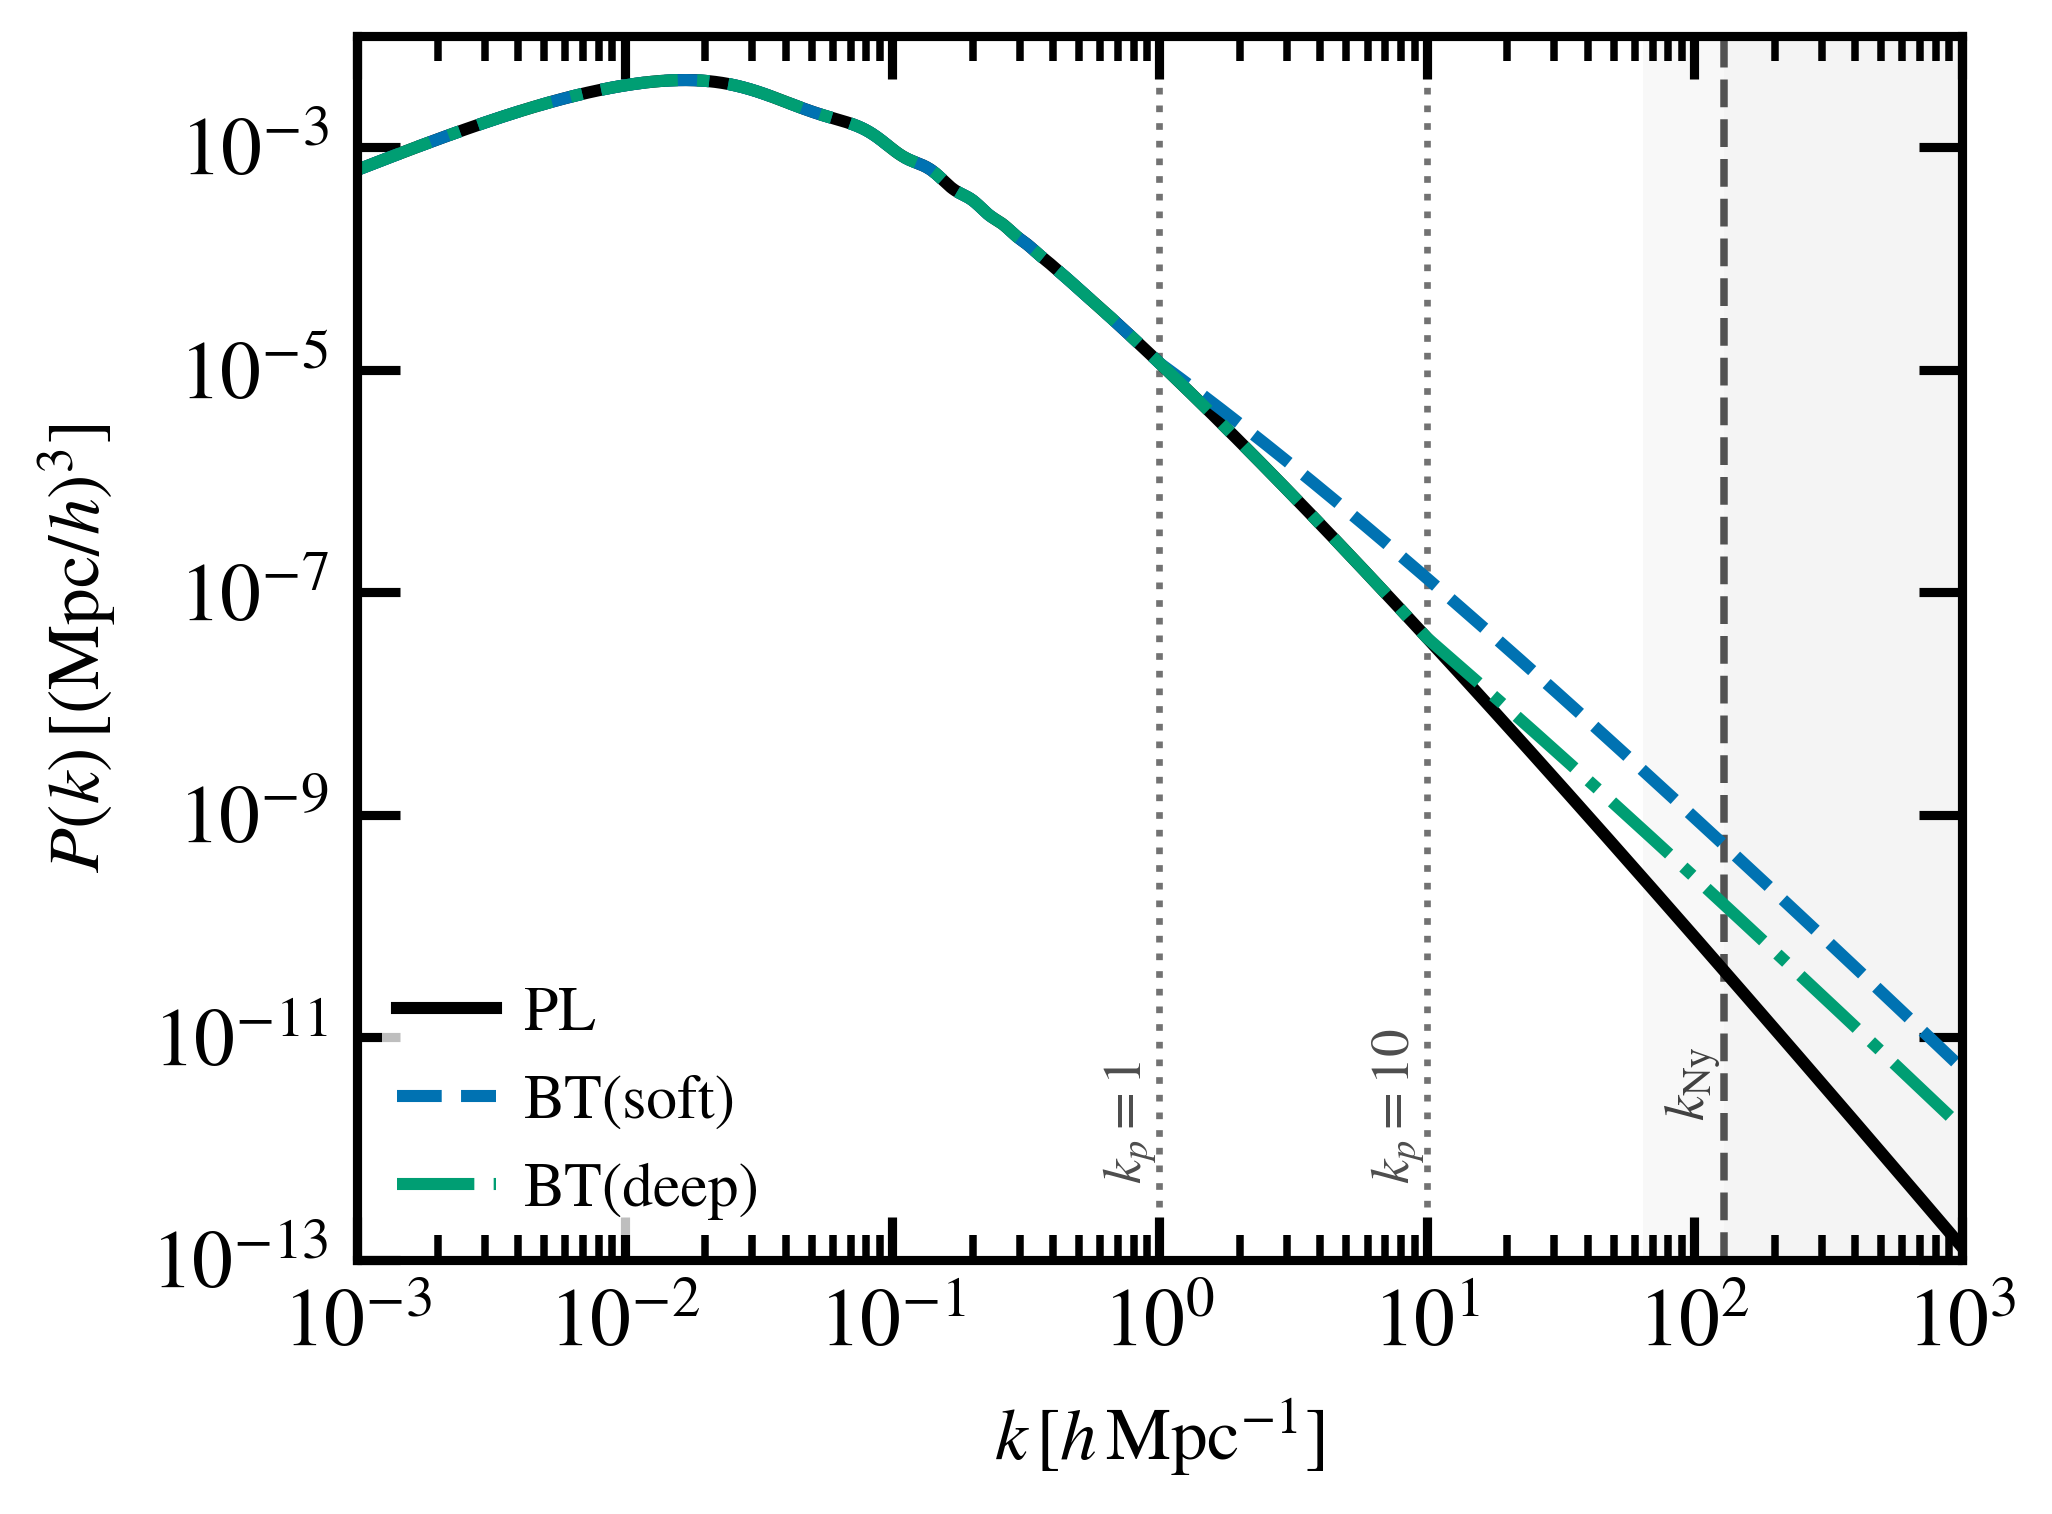
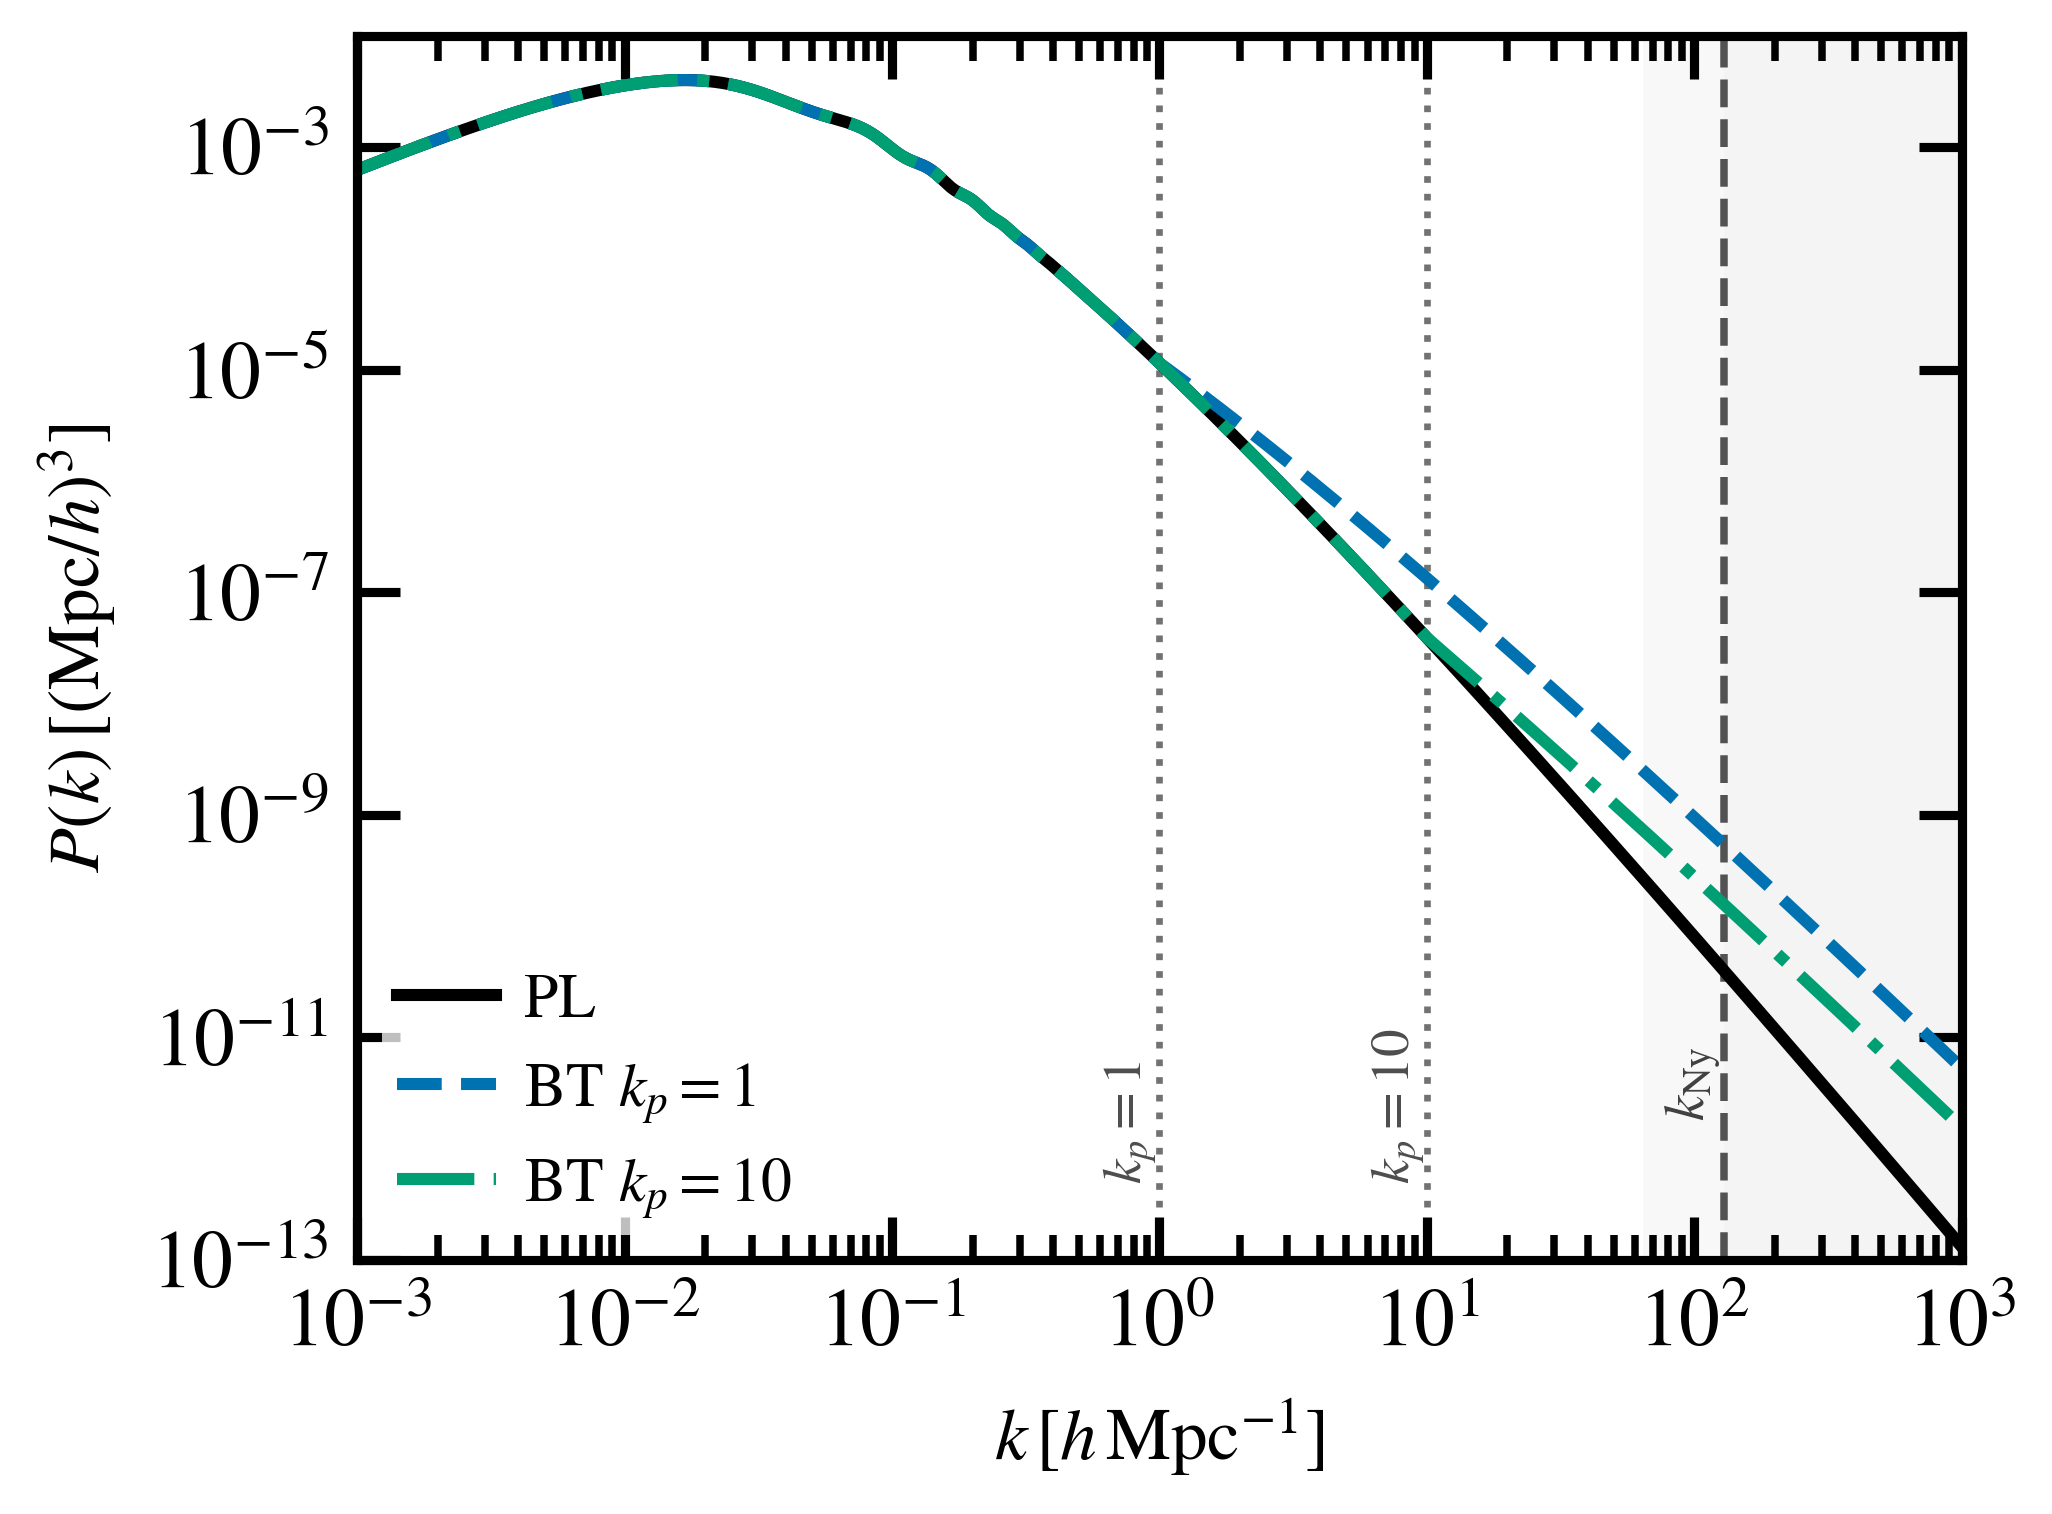
Improve mass-function ranges and spectrum labels

Changed region(s): [[0.1871, 0.6209, 0.3743, 0.8071], [0.1871, 0.7761, 0.2183, 0.8071]]

diff --git a/main.tex b/main.tex
@@ -203,7 +203,7 @@ As an initial-condition consistency test, we compare the BT pivot scales with th
 \begin{figure}[t]
     \centering
     \includegraphics[width=\columnwidth]{input-power-spectrum.png}
-    \caption{Input linear matter power spectra at \(z_i=200\) used to generate the PL, \BTKPone{}, and \BTKPten{} initial conditions. The PL spectrum provides the standard power-law baseline. The BT spectra use the same target \(\sigma_8\) normalization and keep the PL/Eisenstein shape below their pivot scales, up to the small global normalization applied by MonofonIC; above the pivot, they depart from PL. \BTKPone{} departs from PL over a broader range of mildly nonlinear modes, whereas \BTKPten{} confines the modification to smaller scales. The spectra are evaluated at the initial redshift, \(z_i=200\). For the main \(25\,h^{-1}{\rm Mpc}\), \(1024^3\) runs, \(k_{\rm Ny}\simeq129\,h\,{\rm Mpc}^{-1}\), so the \(k_p=1\) and \(10\,h\,{\rm Mpc}^{-1}\) pivots are well below the particle-grid Nyquist scale. Vertical dotted lines mark the BT pivot scales, while the gray high-\(k\) regions mark the conservative \(0.5k_{\rm Ny}\)--\(k_{\rm Ny}\) caution range and modes beyond \(k_{\rm Ny}\).\Tk{change the legend.}}
+    \caption{Input linear matter power spectra at \(z_i=200\) used to generate the PL, \BTKPone{}, and \BTKPten{} initial conditions. The PL spectrum provides the standard power-law baseline. The BT spectra use the same target \(\sigma_8\) normalization and keep the PL/Eisenstein shape below their pivot scales, up to the small global normalization applied by MonofonIC; above the pivot, they depart from PL. \BTKPone{} departs from PL over a broader range of mildly nonlinear modes, whereas \BTKPten{} confines the modification to smaller scales. The spectra are evaluated at the initial redshift, \(z_i=200\). For the main \(25\,h^{-1}{\rm Mpc}\), \(1024^3\) runs, \(k_{\rm Ny}\simeq129\,h\,{\rm Mpc}^{-1}\), so the \(k_p=1\) and \(10\,h\,{\rm Mpc}^{-1}\) pivots are well below the particle-grid Nyquist scale. Vertical dotted lines mark the BT pivot scales, while the gray high-\(k\) regions mark the conservative \(0.5k_{\rm Ny}\)--\(k_{\rm Ny}\) caution range and modes beyond \(k_{\rm Ny}\).}
     \label{fig:power_spectrum_comparison}
 \end{figure}
 
@@ -295,7 +295,7 @@ We use the Reed et al. (2007) FOF fitting function as published, without refitti
 \begin{figure*}[t]
     \centering
     \includegraphics[width=\textwidth]{mass-function.png}
-    \caption{FOF halo mass functions for the PL, \BTKPone{}, and \BTKPten{} simulations at representative redshifts. Upper panels show the measured $dn/d\log_{10} M_{\rm FOF}$ with Poisson error bars, together with the corresponding model-matched Reed et al. (2007) (Reed07) FOF predictions evaluated with each linear matter power spectrum generated from the PL or BT primordial power-spectrum model. Middle panels show \(\BTKPone/\mathrm{PL}\) and \(\BTKPten/\mathrm{PL}\) mass-function ratios in the same FOF mass bins. Bottom panels show \(f_{\rm sim}/f_{\rm Reed07}\) for PL, \BTKPone{}, and \BTKPten{}, using the same bins and mass thresholds. These bottom panels show ratios relative to the Reed07 FOF fitting function and are not a new fitting calibration. Here \BTKPone{} denotes the model with $k_p=1\,h\,{\rm Mpc}^{-1}$ and $m_s=1.5$, while \BTKPten{} denotes the model with $k_p=10\,h\,{\rm Mpc}^{-1}$ and $m_s=1.5$. All simulations use a $25\,h^{-1}{\rm Mpc}$ box with $1024^3$ particles. The gray band marks the interval between the nominal 20-particle halo threshold \(3.8\times10^7\,M_\odot\) and the adopted plotted catalog threshold \(M_{\rm FOF}=10^8\,M_\odot\), roughly the 50-particle scale. The corresponding spherical-overdensity $M_{200c}$ comparison with Bocquet et al. (2016) is shown in Fig.~\ref{fig:m200c_bocquet16_hmf}.}
+    \caption{FOF halo mass functions for the PL, \BTKPone{}, and \BTKPten{} simulations at representative redshifts. Upper panels show the measured $dn/d\log_{10} M_{\rm FOF}$ with Poisson error bars, together with the corresponding model-matched Reed et al. (2007) (Reed07) FOF predictions evaluated with each linear matter power spectrum generated from the PL or BT primordial power-spectrum model. Middle panels show \(\BTKPone/\mathrm{PL}\) and \(\BTKPten/\mathrm{PL}\) mass-function ratios in the same FOF mass bins. The middle-panel y-axis range is set separately for each redshift row. Bottom panels show \(f_{\rm sim}/f_{\rm Reed07}\) for PL, \BTKPone{}, and \BTKPten{}, using the same bins and mass thresholds. These bottom panels show ratios relative to the Reed07 FOF fitting function and are not a new fitting calibration. Here \BTKPone{} denotes the model with $k_p=1\,h\,{\rm Mpc}^{-1}$ and $m_s=1.5$, while \BTKPten{} denotes the model with $k_p=10\,h\,{\rm Mpc}^{-1}$ and $m_s=1.5$. All simulations use a $25\,h^{-1}{\rm Mpc}$ box with $1024^3$ particles. The gray band marks the interval between the nominal 20-particle halo threshold \(3.8\times10^7\,M_\odot\) and the adopted plotted catalog threshold \(M_{\rm FOF}=10^8\,M_\odot\), roughly the 50-particle scale. The corresponding spherical-overdensity $M_{200c}$ comparison with Bocquet et al. (2016) is shown in Fig.~\ref{fig:m200c_bocquet16_hmf}.}
     \label{fig:mass_function}
 \end{figure*}
 
@@ -304,7 +304,7 @@ As a companion comparison to the FOF mass-function result, we also compute the h
 \begin{figure*}[t]
     \centering
     \includegraphics[width=\textwidth]{mass-function-m200c-bocquet16.png}
-    \caption{Spherical-overdensity halo mass function comparison using \(M_{200c}\) masses and the Bocquet et al. (2016) (B16) fitting function. Symbols show the measured SOAP \(M_{200c}\) mass functions for PL, \BTKPone{}, and \BTKPten{}, while lines show the corresponding Bocquet et al. (2016) predictions evaluated with each model's linear matter power spectrum generated from the PL or BT primordial power-spectrum model. The SOAP catalog threshold is \(N_{\rm DM}\ge100\), and the plotted bins require \(M_{200c}\ge2.0\times10^8\,M_\odot\), close to the 100-particle scale \(1.9\times10^8\,M_\odot\). The gray band marks the low-mass region below this plotted completeness threshold. Middle panels show \(\BTKPone/\mathrm{PL}\) and \(\BTKPten/\mathrm{PL}\) mass-function ratios in the same \(M_{200c}\) bins. Bottom panels show \(f_{\rm sim}/f_{\rm B16}\) for PL, \BTKPone{}, and \BTKPten{}, using the same plotted bins.}
+    \caption{Spherical-overdensity halo mass function comparison using \(M_{200c}\) masses and the Bocquet et al. (2016) (B16) fitting function. Symbols show the measured SOAP \(M_{200c}\) mass functions for PL, \BTKPone{}, and \BTKPten{}, while lines show the corresponding Bocquet et al. (2016) predictions evaluated with each model's linear matter power spectrum generated from the PL or BT primordial power-spectrum model. The SOAP catalog threshold is \(N_{\rm DM}\ge100\), and the plotted bins require \(M_{200c}\ge2.0\times10^8\,M_\odot\), close to the 100-particle scale \(1.9\times10^8\,M_\odot\). The gray band marks the low-mass region below this plotted completeness threshold. Middle panels show \(\BTKPone/\mathrm{PL}\) and \(\BTKPten/\mathrm{PL}\) mass-function ratios in the same \(M_{200c}\) bins. The middle-panel y-axis range is set separately for each redshift row. Bottom panels show \(f_{\rm sim}/f_{\rm B16}\) for PL, \BTKPone{}, and \BTKPten{}, using the same plotted bins.}
     \label{fig:m200c_bocquet16_hmf}
 \end{figure*}
 

diff --git a/public_data/scripts/plot_bocquet16_m200c_hmf.py b/public_data/scripts/plot_bocquet16_m200c_hmf.py
@@ -429,14 +429,14 @@ def padded_ratio_ylim(values, fallback=(0.5, 2.0)):
     return ymin, ymax
 
 
-def ratio_ylim(values, fallback=(0.5, 10.0)):
+def ratio_ylim(values, fallback=(0.5, 10.0), *, expand_large_range=True):
     values = np.asarray(values, dtype=float)
     values = values[np.isfinite(values) & (values > 0.0)]
     if values.size == 0:
         return fallback
     ymin = max(0.08, values.min() * 0.82)
     ymax = max(2.0, values.max() * 1.18)
-    if ymax / ymin > 30.0:
+    if expand_large_range and ymax / ymin > 30.0:
         ymin = 10.0 ** np.floor(np.log10(ymin))
         ymax = 1.35 * 10.0 ** np.ceil(np.log10(ymax))
     return ymin, ymax
@@ -449,7 +449,7 @@ def plot_results(sim_results, theory_results):
     n_cols = min(PANEL_COLUMNS, n_panels)
     n_rows = int(np.ceil(n_panels / n_cols))
     bt_pl_ratio_results = {name: {} for name in ("BT_soft", "BT_deep")}
-    bt_pl_ratio_values = []
+    bt_pl_ratio_values_by_row = {row: [] for row in range(n_rows)}
     sim_b16_values_by_row = {row: [] for row in range(n_rows)}
 
     for idx, snap in enumerate(SNAPSHOTS):
@@ -467,15 +467,19 @@ def plot_results(sim_results, theory_results):
                 "ratio": ratio,
                 "ratio_err": ratio_err,
             }
-            bt_pl_ratio_values.extend(ratio[np.isfinite(ratio) & (ratio > 0.0)])
+            bt_pl_ratio_values_by_row[row].extend(np.concatenate([ratio, ratio - ratio_err, ratio + ratio_err]))
         for name in MODELS:
             data = sim_results.get(name, {}).get(snap)
             if data is not None:
                 sim_b16_values_by_row[row].extend(data["ratio"][np.isfinite(data["ratio"]) & (data["ratio"] > 0.0)])
 
-    bt_pl_ratio_ylim = ratio_ylim(bt_pl_ratio_values)
+    bt_pl_ratio_ylims = {}
     sim_b16_ratio_ylims = {}
     for row in range(n_rows):
+        bt_pl_ratio_ylims[row] = ratio_ylim(
+            bt_pl_ratio_values_by_row.get(row, []),
+            expand_large_range=(row > 0),
+        )
         sim_b16_ratio_ylims[row] = padded_ratio_ylim(sim_b16_values_by_row.get(row, []), fallback=(0.5, 2.0))
 
     fig = plt.figure(figsize=(3.20 * n_cols, 4.35 * n_rows))
@@ -566,7 +570,7 @@ def plot_results(sim_results, theory_results):
         format_axes(ax_model, grid=True)
         y_min = 1.0e-8 if redshift is not None and redshift >= 8.0 else 1.0e-7
         ax_upper.set(xscale="log", yscale="log", xlim=(1.0e8, 2.0e11), ylim=(y_min, 1.0e2))
-        ax_bt.set(xscale="log", yscale="log", xlim=(1.0e8, 2.0e11), ylim=bt_pl_ratio_ylim)
+        ax_bt.set(xscale="log", yscale="log", xlim=(1.0e8, 2.0e11), ylim=bt_pl_ratio_ylims[row])
         ax_model.set(xscale="log", yscale="log", xlim=(1.0e8, 2.0e11), ylim=sim_b16_ratio_ylims[row])
         set_hmf_log_ticks(ax_upper, y_decades=(int(np.log10(y_min)), 2))
         set_hmf_ratio_ticks(ax_bt, ratio_ticks=BT_PL_LABEL_TICKS)

diff --git a/public_data/scripts/plot_hmf_public_ratio.py b/public_data/scripts/plot_hmf_public_ratio.py
@@ -155,14 +155,14 @@ def set_log_ticks(ax, ratio=False, ratio_ticks=None):
         ax.yaxis.set_minor_formatter(NullFormatter())
 
 
-def ratio_ylim(values):
+def ratio_ylim(values, *, expand_large_range=True):
     values = np.asarray(values, dtype=float)
     values = values[np.isfinite(values) & (values > 0)]
     if len(values) == 0:
         return 0.5, 10.0
     ymin = max(0.08, values.min() * 0.82)
     ymax = max(2.0, values.max() * 1.18)
-    if ymax / ymin > 30:
+    if expand_large_range and ymax / ymin > 30:
         ymin = 10 ** np.floor(np.log10(ymin))
         ymax = 1.35 * 10 ** np.ceil(np.log10(ymax))
     return ymin, ymax
@@ -172,9 +172,11 @@ def main():
     apply_journal_style(base_fontsize=11.2)
     points, ratios = read_public_tables()
 
-    bt_pl_values = []
+    n_cols = 3
+    bt_pl_values_by_row = {row: [] for row in range(int(np.ceil(len(SNAPS) / n_cols)))}
     bt_pl_cache = {}
-    for snap in SNAPS:
+    for idx, snap in enumerate(SNAPS):
+        row = idx // n_cols
         pl = points.get((snap, "PL"), [])
         for model in ["BTKP1", "BTKP10"]:
             bt = points.get((snap, model), [])
@@ -193,8 +195,11 @@ def main():
             )
             mass = 10 ** (0.5 * (values(btn, "log10_M_FOF_Msun")[valid] + values(pln, "log10_M_FOF_Msun")[valid]))
             bt_pl_cache[(snap, model)] = (mass, ratio, err)
-            bt_pl_values.extend(ratio)
-    bt_pl_ylim = ratio_ylim(bt_pl_values)
+            bt_pl_values_by_row[row].extend(np.concatenate([ratio, ratio - err, ratio + err]))
+    bt_pl_ylims = {
+        row: ratio_ylim(row_values, expand_large_range=(row > 0))
+        for row, row_values in bt_pl_values_by_row.items()
+    }
     sim_reed_ylim = SIM_REED_YLIM
 
     fig = plt.figure(figsize=(8.6, 8.25))
@@ -253,7 +258,7 @@ def main():
             ratio_ax.set(xscale="log", yscale="log", xlim=(HMF_XMIN_MSUN, HMF_XMAX_MSUN))
             format_axes(ratio_ax, grid=True)
             mark_resolution(ratio_ax)
-        ax_bt.set_ylim(*bt_pl_ylim)
+        ax_bt.set_ylim(*bt_pl_ylims[row])
         ax_model.set_ylim(*sim_reed_ylim)
         set_log_ticks(ax_bt, ratio=True, ratio_ticks=BT_PL_LABEL_TICKS)
         set_log_ticks(ax_model, ratio=True, ratio_ticks=SIM_REED_LABEL_TICKS)

diff --git a/public_data/scripts/plot_input_power_spectrum.py b/public_data/scripts/plot_input_power_spectrum.py
@@ -35,12 +35,12 @@ SPECTRA = [
         {"color": JOURNAL_COLORS["black"], "linestyle": "-", "linewidth": 1.45},
     ),
     (
-        "BTKP1",
+        r"BT $k_p=1$",
         DATA_DIR / "input_powerspec_kp_1.0_ms_1.5_256.000000_0.0.txt",
         {"color": JOURNAL_COLORS["blue"], "linestyle": "--", "linewidth": 1.45},
     ),
     (
-        "BTKP10",
+        r"BT $k_p=10$",
         DATA_DIR / "input_powerspec_kp_10.0_ms_1.5_256.000000_0.0.txt",
         {"color": JOURNAL_COLORS["green"], "linestyle": "-.", "linewidth": 1.45},
     ),
